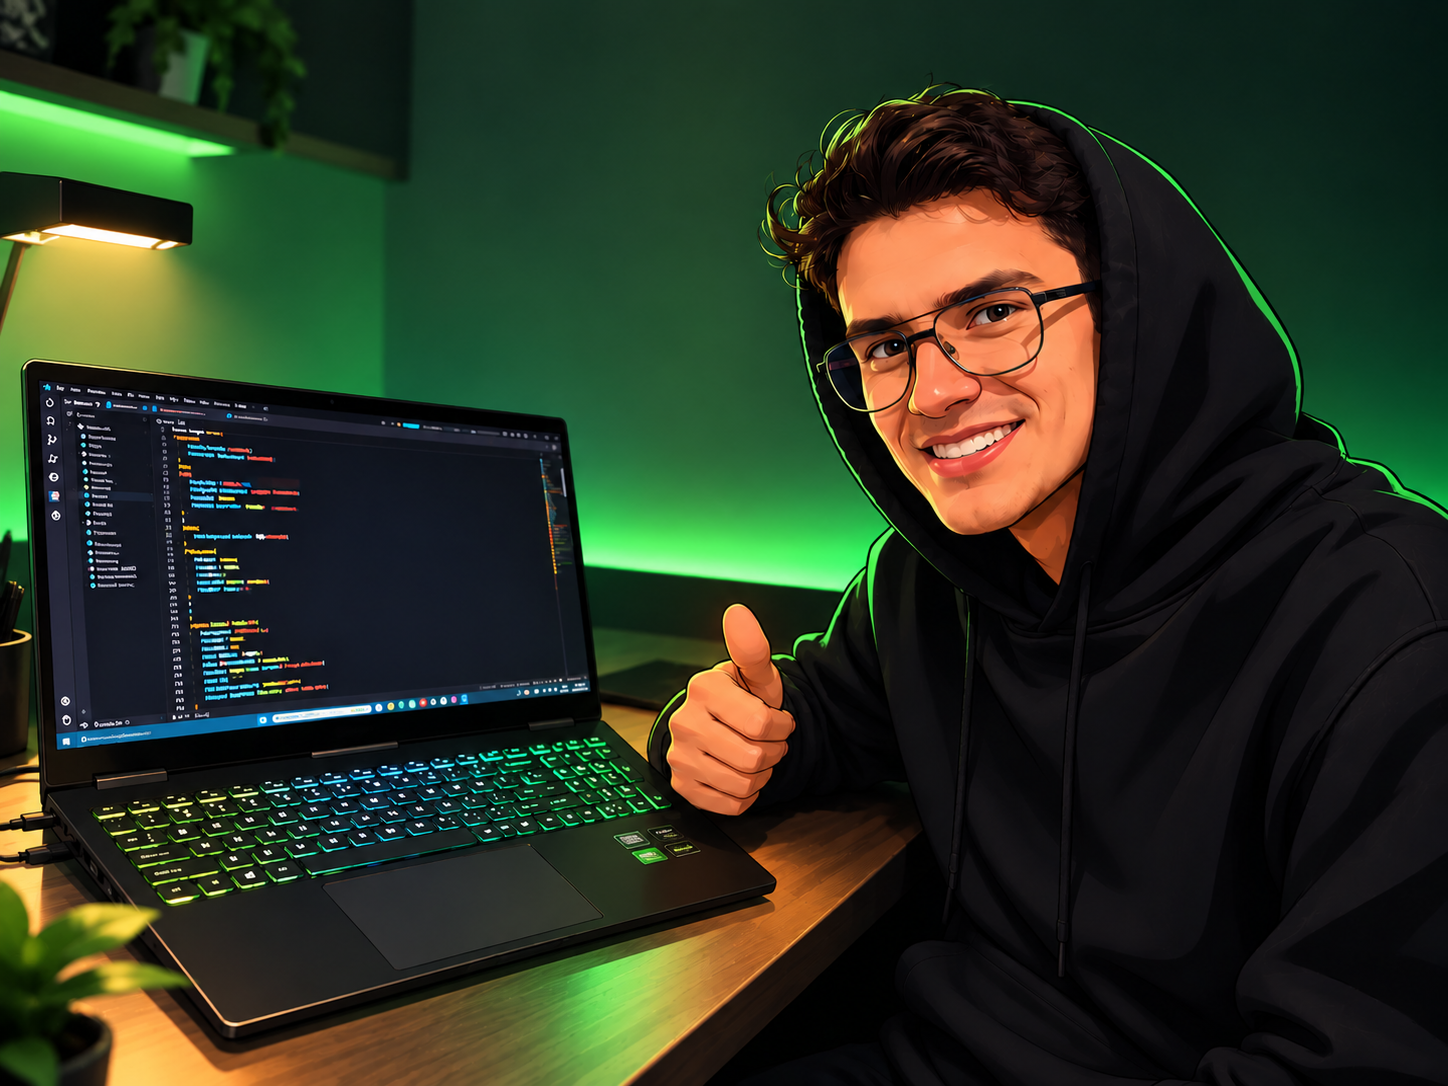
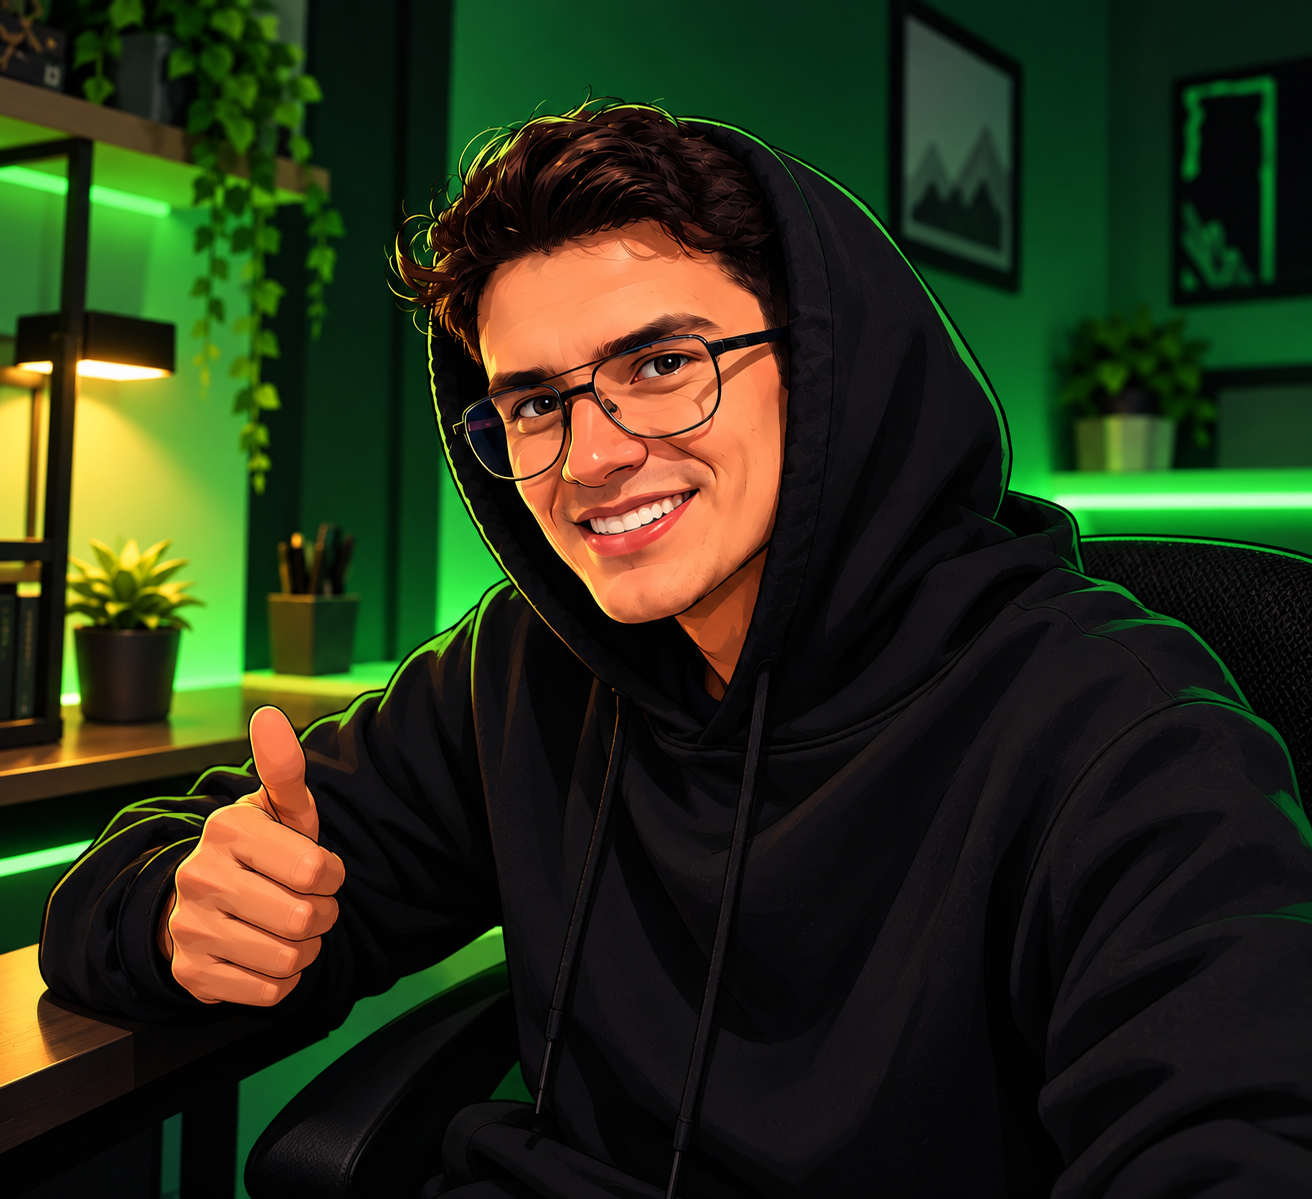
Se hizo cambio de imagen y se empezo  a justar la imagen para que quede bien

diff --git a/v1/css/style.css b/v1/css/style.css
@@ -4,32 +4,30 @@
     box-sizing: border-box;
     
 }
+.contenedor_central_hijo{
+    display: flex;
+    flex: 1; 
+    background-color: #f0f0f0;
+    
+    border: #000 1px solid ;
+}
+.imagen_principal{
+    width: 100px;           
+    height: 100px;
+    object-fit: cover;      
+    border-radius: 50%;  
+}
 .contenedor_img_principal{
     display: flex;
     height: 100%;
 }
-.c2ontenedor_logo{
-    display: flex;
-    height: 50px;
-    margin: 0;
-    max-width: 80%;
-    margin-bottom: 100px;
-    width: 40%;
-    justify-content: flex-start;
-    border-bottom: rgb(201, 190, 185) solid 2px;
-    
-  
-}
-.l2ogo_nav{
-    width: 160px;
-    height: 100%;
-    margin-left: 50%;
-}
+
 .contenedor_central{
     display: flex;
     border: #000 solid 1px;
-    margin: 50px;
+    margin: 50px 0;
     height: 100px;
+    background-color: #e0e0e2;
 }
 footer{
     display: flex;

diff --git a/v1/index.html b/v1/index.html
@@ -26,11 +26,11 @@
         </nav>
     </header>
     <div class="contenedor_central">
-        <div class="contenedor_img_principal">
-            <img class="imagen" src="img/imagenPrincipal.png" alt="Imagen de mi">
-        </div>
-        <div>
+        <div class="contenedor_central_hijo">
             <button>Descargar Cv</button>
+        </div>
+        <div class="contenedor_central_hijo">
+            <img class="imagen_principal" src="img/imagenPrincipal.png" alt="Imagen de mi">
         </div>
         
     </div>
